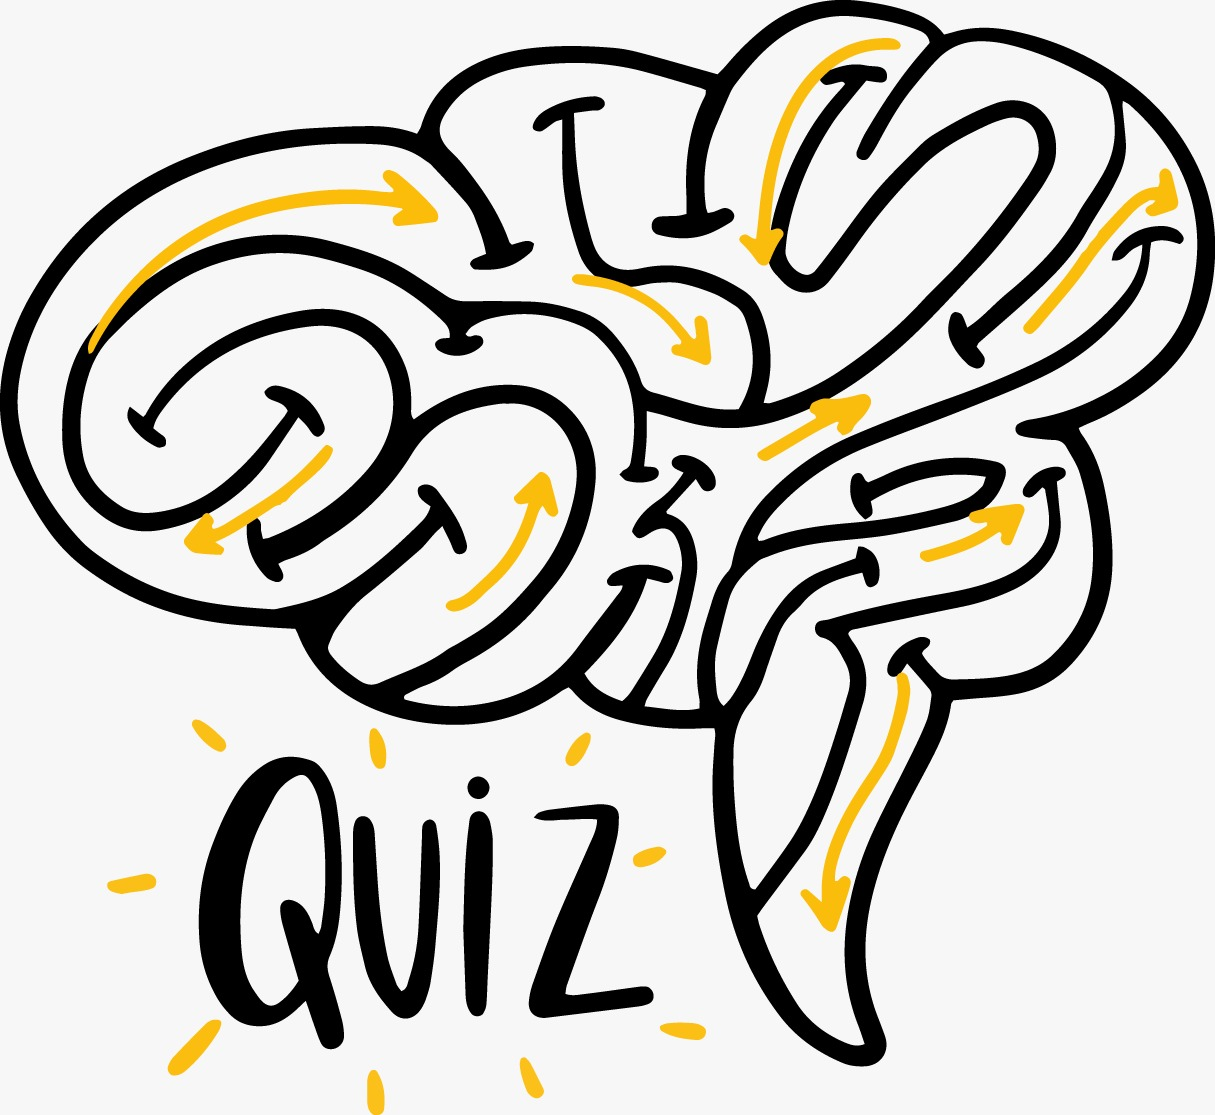
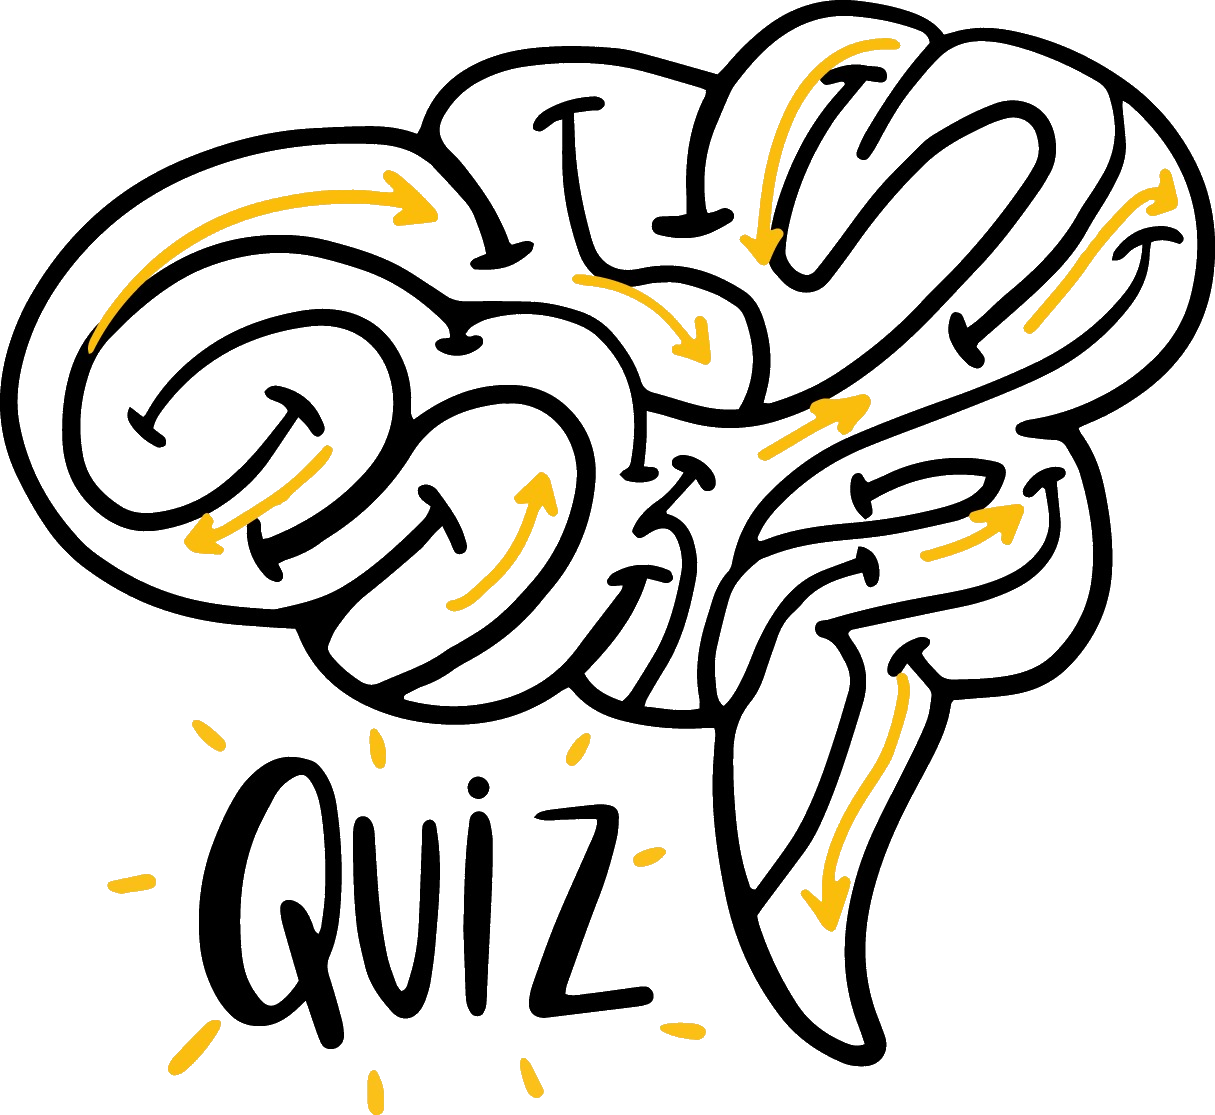
resized Features images

Changed region(s): [[0.5481, 0.2744, 0.5786, 0.3049]]

diff --git a/src/components/Features.js b/src/components/Features.js
@@ -75,7 +75,7 @@ class ProfThing extends React.Component {
                         <br/>
                         <Col>
                           <Col sm={2} />
-                          <Image width='100%' src= {feedback} rounded />
+                          <img width="90%"  height="100%"src= {feedback} rounded />
                         </Col>
                         <br />
                         <br />
@@ -105,7 +105,7 @@ class ProfThing extends React.Component {
                       <br/>
                       <Col>
                         <Col sm={2} />
-                        <Image src= {perf} rounded />
+                        <img width="90%"  height="100%"src= {perf} rounded />
                       </Col>
                       <br />
                       <br />
@@ -136,7 +136,7 @@ class ProfThing extends React.Component {
                       <br/>
                       <Col>
                         <Col sm={2} />
-                        <Image src= {quiz} rounded />
+                        <img width="90%"  height="100%"src= {quiz} rounded />
                       </Col>
                       <br />
                       <br />
@@ -249,7 +249,7 @@ class StudentThing extends React.Component {
                       <br/>
                       <Col>
                         <Col sm={2} />
-                        <Image src= {studfeed} rounded />
+                        <img width="90%"  height="100%"src= {studfeed} rounded />
                       </Col>
                       <br />
                       <br />
@@ -279,9 +279,8 @@ class StudentThing extends React.Component {
                       <br/>
                       <Col>
                         <Col sm={1} />
-                        <Image src= {studquiz} rounded />
+                        <img width="90%"  height="100%" src= {studquiz} rounded />
                       </Col>
-                      <br />
                       <br />
                       <br />
                     </Card>
@@ -307,10 +306,9 @@ class StudentThing extends React.Component {
                           title="Ask Question"
                           subtitle="Let the professor know your question"
                       />
-                      <br/>
                       <Col>
                         <Col sm={5} />
-                        <Image src= {studques} rounded />
+                        <img width="90%"  height="100%"src= {studques} rounded />
                       </Col>
                       <br />
                     </Card>
